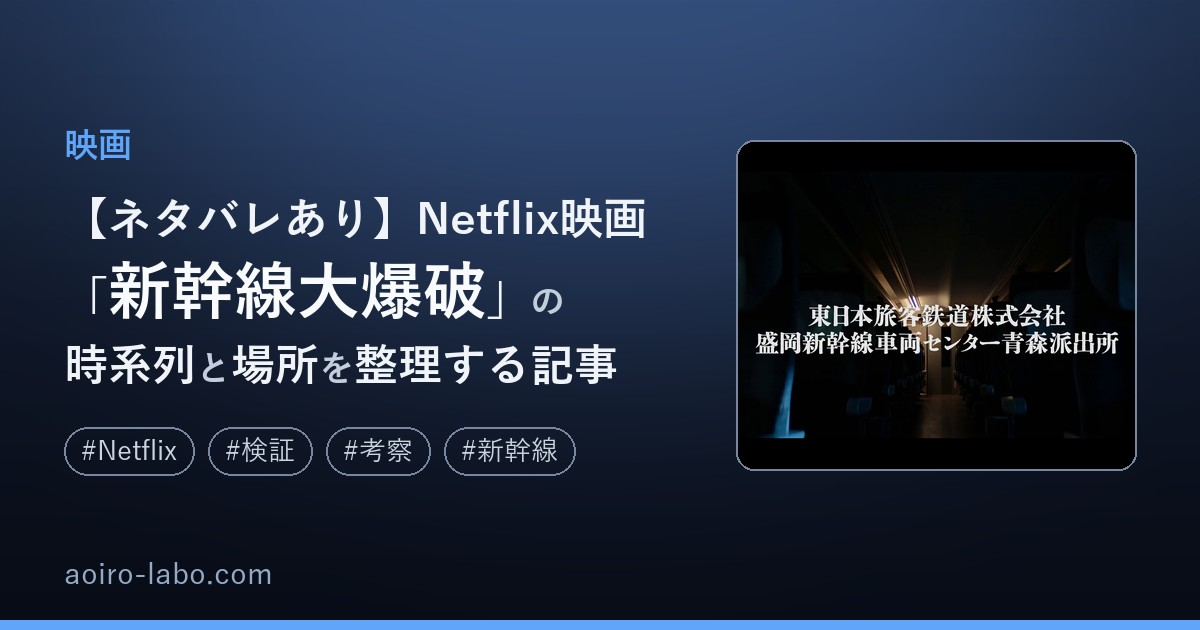
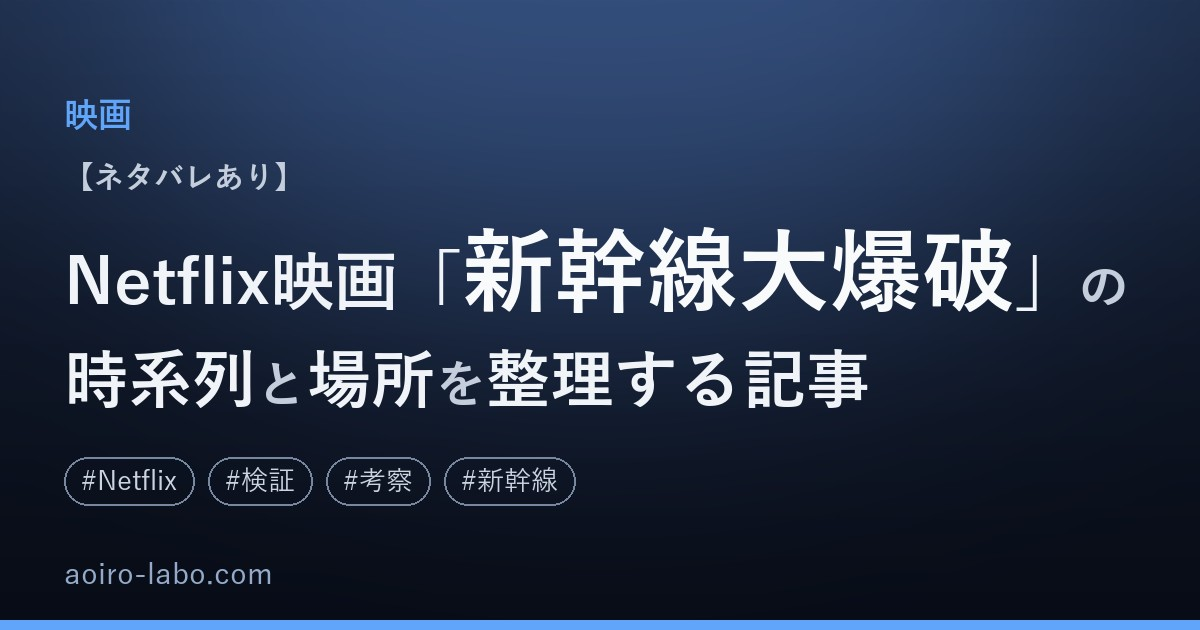
カバー表示を調整：画像はバナー配置、隅付き括弧は独立行、長文タイトルでは画像なし

Changed region(s): [[0.0308, 0.1508, 0.9558, 0.8143]]

diff --git a/tools/generate_cover.py b/tools/generate_cover.py
@@ -114,6 +114,7 @@ def classify(atoms, emph, hero):
         if len(a)>1 and a[-1] in PARTICLES and not a.endswith('から'):
             emit(a[:-1],'base'); emit(a[-1],'sub',glue=True); continue
         emit(a,'base')
+    out=[(t,c,(g or (t and t[0] in '」）)'))) for (t,c,g) in out]
     return out
 
 def split_emph(atoms, emph, hero):
@@ -277,22 +278,49 @@ def paste_panel(img, panel_img, x, y, pw, ph):
     d=ImageDraw.Draw(img)
     d.rounded_rectangle([x,y,x+pw,y+ph], radius=18, outline=(120,135,160), width=2)
 
+def split_bracket_prefix(disp):
+    if disp.startswith('【') and '】' in disp:
+        k=disp.index('】')+1
+        if k<=14:
+            return disp[:k], disp[k:]
+    return None, disp
+
+def paste_banner(img, src):
+    # right-side full-height bleed, fading into the background on its left edge
+    ph = H
+    pw = 470
+    scale=max(pw/src.size[0], ph/src.size[1])
+    nw,nh=int(src.size[0]*scale+0.5), int(src.size[1]*scale+0.5)
+    src=src.resize((nw,nh), Image.LANCZOS)
+    left=(nw-pw)//2; top=(nh-ph)//2
+    src=src.crop((left,top,left+pw,top+ph))
+    fade=260
+    mask=Image.new('L',(pw,ph),255)
+    md=ImageDraw.Draw(mask)
+    for x in range(fade):
+        v=int(255 * (x/fade)**1.4)
+        md.line([(x,0),(x,ph)], fill=v)
+    img.paste(src,(W-pw,0),mask)
+
 def make(path, out, hero_override=None, emphasis_override=None):
     title, cat, tags, kw, emph, cimg, slug = fm_of(path)
     hero = hero_override if hero_override is not None else kw
     if emphasis_override is not None: emph = emphasis_override
     disp = title.replace('（','(').replace('）',')')
+    bracket, disp = split_bracket_prefix(disp)
+    bracket_h = 30+22 if bracket else 0
     acc = accent_for(cat)
     img = background(acc)
     d = ImageDraw.Draw(img)
     cat_h = 34+30 if cat else 0
     chips_h = 48 if tags else 0
+    cat_h += bracket_h
 
     panel = pick_image(path, cimg)
     if panel is not None:
         items = classify(split_emph(tokenize(disp), emph, hero), emph, hero)
-        PW_, PH_ = 400, 330
-        col_w = W - MARGIN*2 - PW_ - 44
+        PW_, PH_ = 470, 630
+        col_w = W - MARGIN*2 - 430 - 30
         def solve_p(ml_target):
             for size_try in range(92, 39, -4):
                 widths=[]
@@ -301,7 +329,7 @@ def make(path, out, hero_override=None, emphasis_override=None):
                 lt=layout(items, widths, col_w, ml_target, balance_last=True, min_fill=0.5)
                 if not lt or len(lt)!=ml_target: continue
                 hs=line_heights(lt, size_try, acc)
-                if cat_h + sum(hs) + (30 if tags else 0) + chips_h > PH_ + 150: continue
+                if cat_h + sum(hs) + (30 if tags else 0) + chips_h > H - 150: continue
                 return (size_try, lt, widths, hs)
             return None
         sols={}
@@ -312,14 +340,20 @@ def make(path, out, hero_override=None, emphasis_override=None):
             chosen=sols[3]
         else:
             chosen=sols[min(sols)]
+        if chosen[0] < 52:
+            panel=None
+            print('  image dropped (title too long for panel):', out)
         size, lines, widths, heights = chosen
         block_h=sum(heights)
         total = cat_h + block_h + (30 if tags else 0) + chips_h
         y = (H - total)//2 - 14
         if cat:
-            d.text((MARGIN, y), cat, font=ImageFont.truetype(BOLD, 34), fill=acc); y += cat_h
-        draw_lines(d, items, lines, widths, MARGIN, y, size, acc, heights)
-        paste_panel(img, panel, W-MARGIN-PW_, (H-PH_)//2 - 10, PW_, PH_)
+            d.text((MARGIN, y), cat, font=ImageFont.truetype(BOLD, 34), fill=acc); y += 34+30
+        if bracket and panel is not None:
+            d.text((MARGIN, y), bracket, font=ImageFont.truetype(BOLD, 30), fill=SUBC); y += bracket_h
+        if panel is not None:
+            draw_lines(d, items, lines, widths, MARGIN, y, size, acc, heights)
+            paste_banner(img, panel)
         y += block_h
         if tags:
             y += 30
@@ -332,11 +366,15 @@ def make(path, out, hero_override=None, emphasis_override=None):
                 d.rounded_rectangle([x,y,x+tw+34,y+48], radius=24, outline=(120,135,160), width=2)
                 d.text((x+17,y+9), label, font=tf, fill=(203,213,225))
                 x+=tw+34+14
-        d.text((MARGIN,H-72), 'aoiro-labo.com', font=ImageFont.truetype(REG, 30), fill=(148,170,200))
-        d.rectangle([0,H-10,W,H], fill=acc)
-        img.save(out, quality=90)
-        print('made (panel)', out, '| hero:', hero, '| lines:', [[t for (t,c,g) in ln] for ln in lines])
-        return
+        if panel is not None:
+            d.text((MARGIN,H-72), 'aoiro-labo.com', font=ImageFont.truetype(REG, 30), fill=(148,170,200))
+            d.rectangle([0,H-10,W,H], fill=acc)
+            img.save(out, quality=90)
+            print('made (panel)', out, '| hero:', hero, '| lines:', [[t for (t,c,g) in ln] for ln in lines])
+            return
+        # panel dropped: rebuild canvas and continue to flow layout
+        img = background(acc)
+        d = ImageDraw.Draw(img)
     zone = False
     if hero and disp.endswith(hero):
         # try zone composition: hero block on the right, white
@@ -366,7 +404,9 @@ def make(path, out, hero_override=None, emphasis_override=None):
             total = cat_h + block_h + (30 if tags else 0) + chips_h
             y = (H - total)//2 - 14
             if cat:
-                d.text((MARGIN, y), cat, font=ImageFont.truetype(BOLD, 34), fill=acc); y += cat_h
+                d.text((MARGIN, y), cat, font=ImageFont.truetype(BOLD, 34), fill=acc); y += 34+30
+            if bracket:
+                d.text((MARGIN, y), bracket, font=ImageFont.truetype(BOLD, 30), fill=SUBC); y += bracket_h
             draw_lines(d, items, lines, widths, MARGIN, y, size, acc, heights)
             d.text((W-MARGIN-kw_w, y + block_h//2), hero, font=kw_font, fill=WHITE, anchor='lm')
             y += block_h
@@ -407,7 +447,9 @@ def make(path, out, hero_override=None, emphasis_override=None):
     total = cat_h + block_h + (30 if tags else 0) + chips_h
     y = (H - total)//2 - 14
     if cat:
-        d.text((MARGIN, y), cat, font=ImageFont.truetype(BOLD, 34), fill=acc); y += cat_h
+        d.text((MARGIN, y), cat, font=ImageFont.truetype(BOLD, 34), fill=acc); y += 34+30
+    if bracket:
+        d.text((MARGIN, y), bracket, font=ImageFont.truetype(BOLD, 30), fill=SUBC); y += bracket_h
     draw_lines(d, items, lines, widths, MARGIN, y, size, acc, heights)
     y += block_h
     finish(d, img, cat, tags, acc, y, out)
